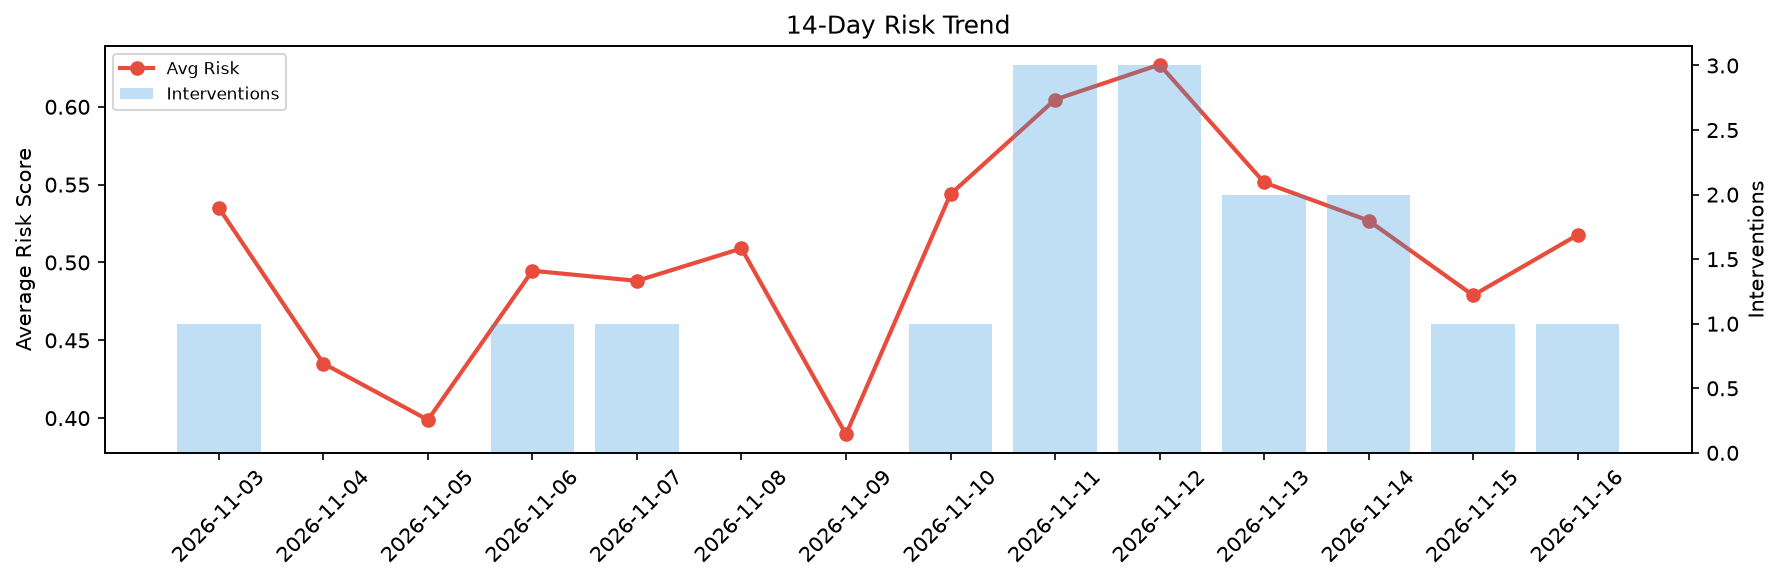
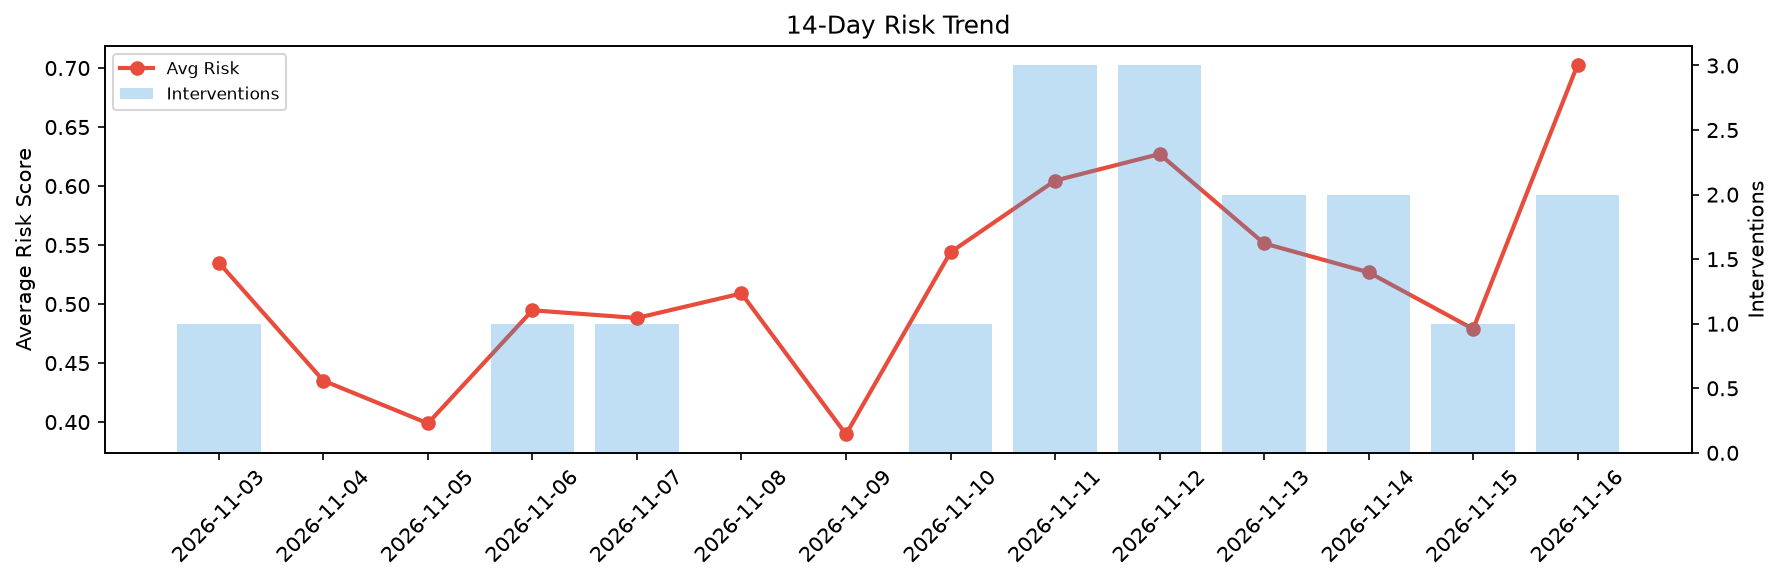
agent-improvement: daily cycle 2026-11-16T23:23

diff --git a/logs/2026-11-16.md b/logs/2026-11-16.md
@@ -1,6 +1,6 @@
 # Agent Improvement Report — 2026-11-16
 
-**Cycle ID:** `2b963c49` | **Avg Risk:** 0.5177 | **Interventions:** 1/4
+**Cycle ID:** `ba7fd88d` | **Avg Risk:** 0.7029 | **Interventions:** 2/4
 
 ![Dashboard](2026-11-16_dashboard.png)
 
@@ -10,18 +10,18 @@
 
 | Domain | Risk Score | Decision | Alerts |
 |--------|-----------|----------|--------|
-| code_review | 0.5764 | monitor | duplication |
-| incident_response | 0.5091 | monitor | severity |
-| data_pipeline | 0.3611 | monitor | none |
-| deployment | 0.6242 | intervene | rollback_rate |
+| code_review | 0.8628 | intervene | complexity, coverage |
+| incident_response | 0.5608 | monitor | severity, blast_radius |
+| data_pipeline | 0.857 | intervene | freshness, schema_drift |
+| deployment | 0.5309 | monitor | none |
 
 ## Delta vs Yesterday
 
 | Domain | Today | Yesterday | Change |
 |--------|-------|-----------|--------|
-| code_review | 0.5764 | 0.6321 | 📉 -8.8% |
-| incident_response | 0.5091 | 0.5354 | 📉 -4.9% |
-| data_pipeline | 0.3611 | 0.2679 | 📈 34.8% |
-| deployment | 0.6242 | 0.4802 | 📈 30.0% |
+| code_review | 0.8628 | 0.6321 | 📈 36.5% |
+| incident_response | 0.5608 | 0.5354 | 📈 4.7% |
+| data_pipeline | 0.857 | 0.2679 | 📈 219.9% |
+| deployment | 0.5309 | 0.4802 | 📈 10.6% |
 
-**Refinement:** `{'adjustment': 'tighten_thresholds', 'trend': 'degrading', 'window': 4}`
+**Refinement:** `{'adjustment': 'maintain', 'trend': 'improving', 'window': 4}`
